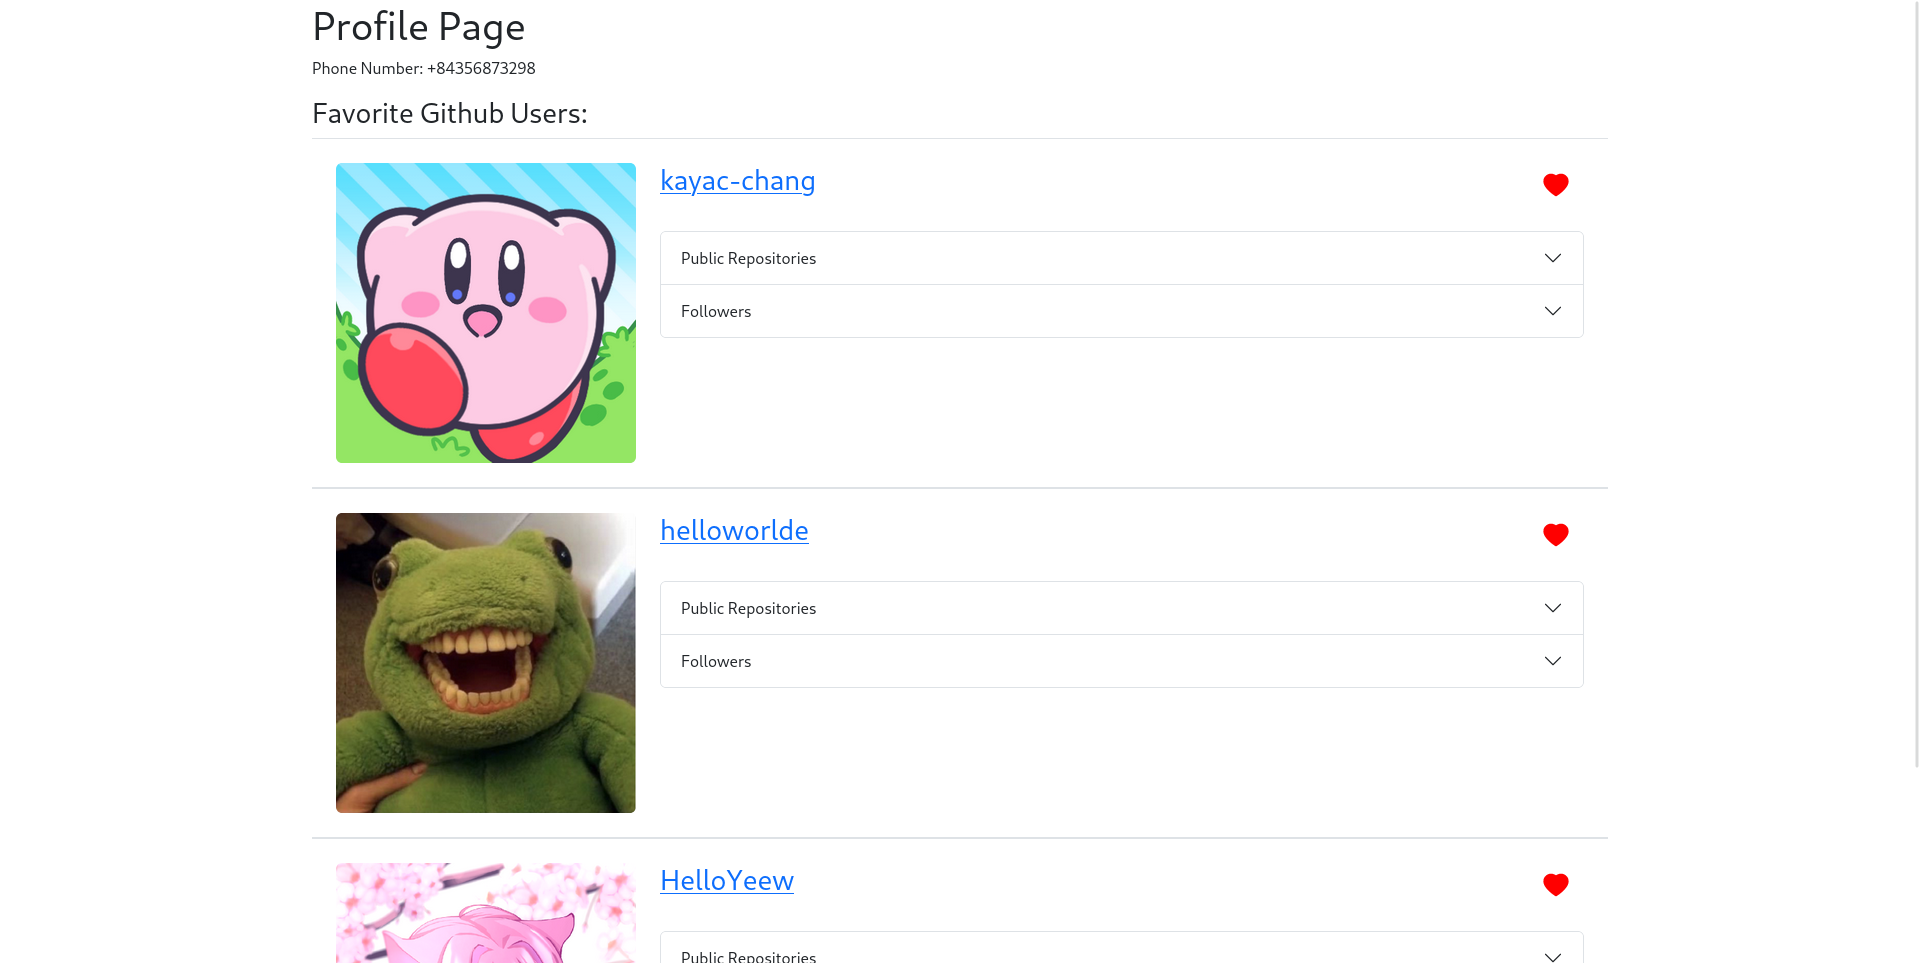
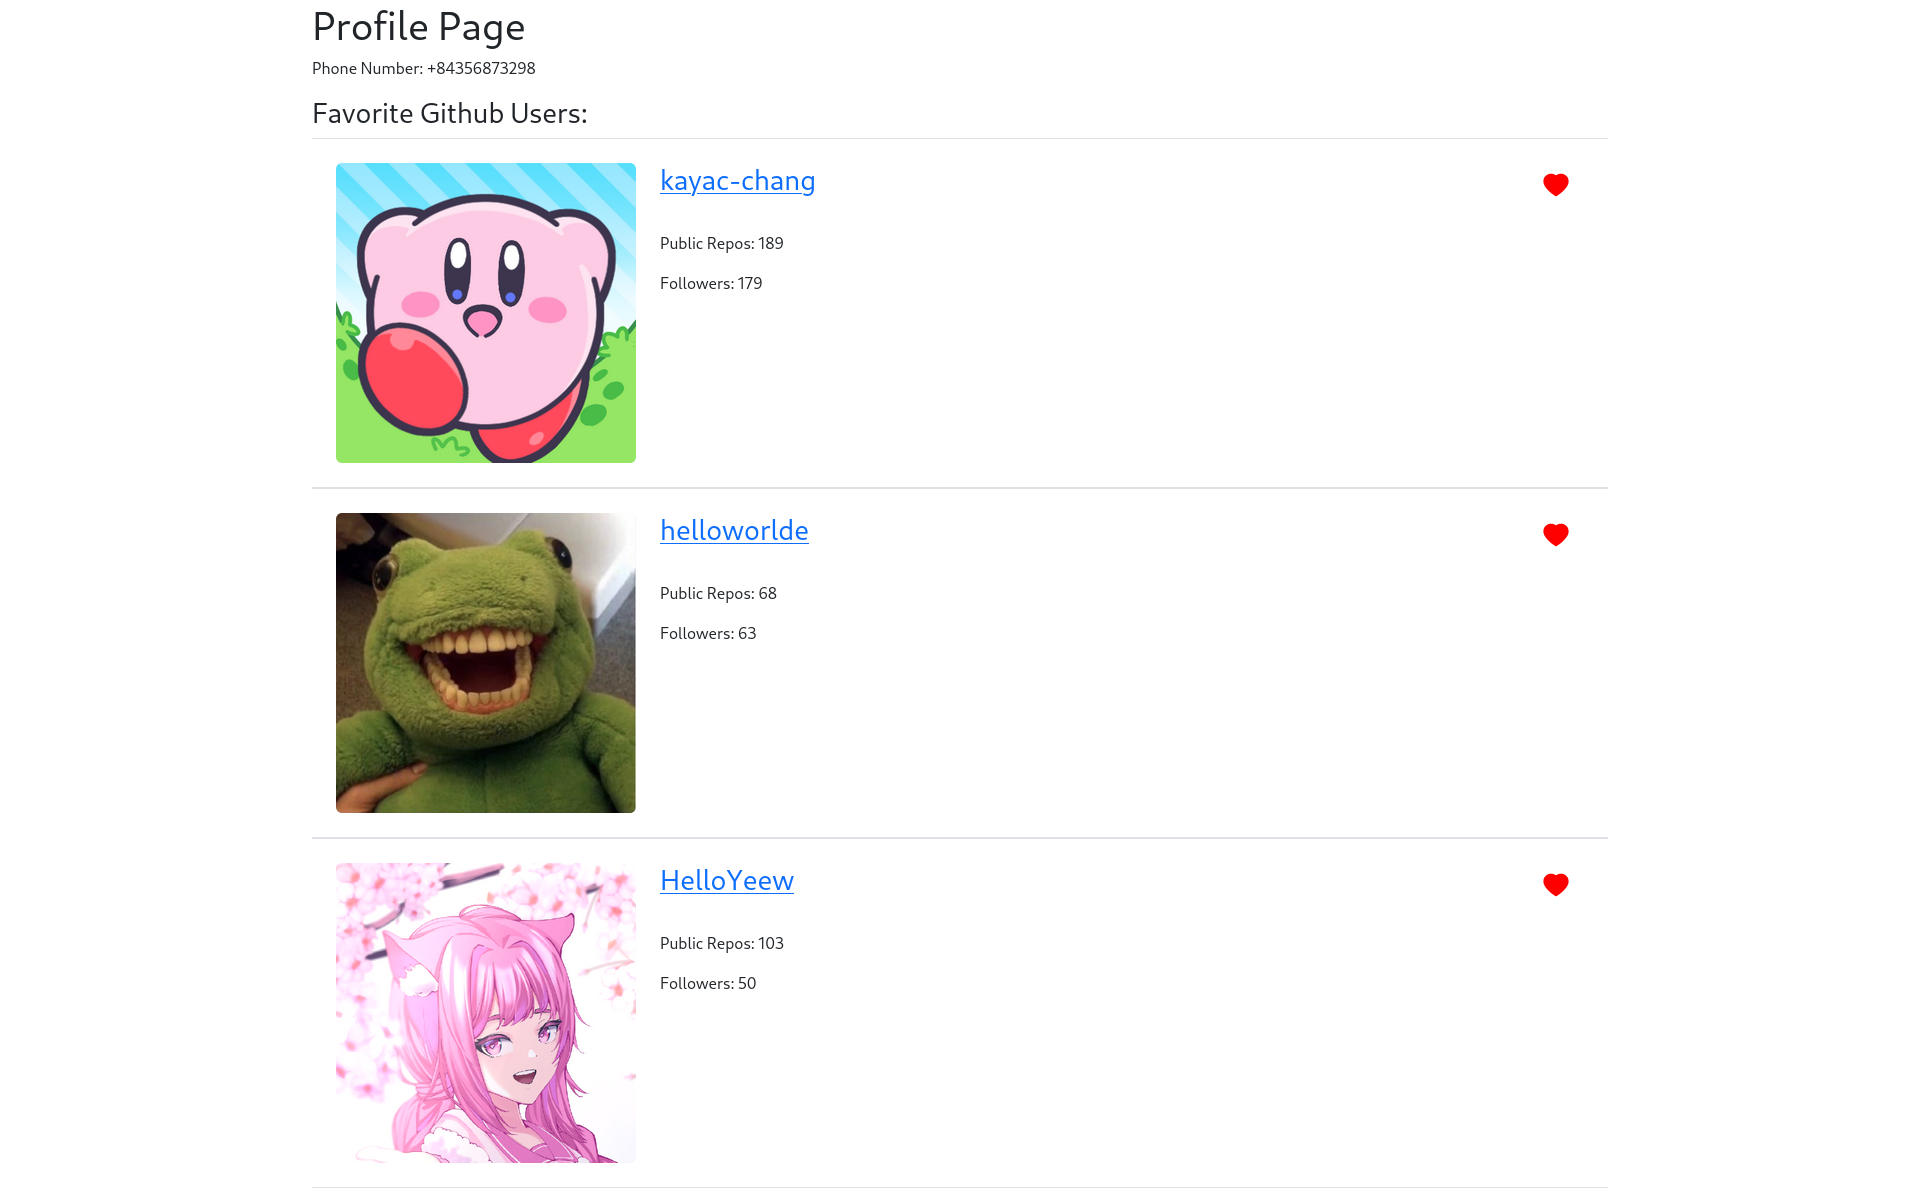
fix(backend, frontend): public_repos and followers
Change the `public_repos` and `followers` to display number instead of making requests to the Github API.

diff --git a/frontend/src/components/GithubUserTile.jsx b/frontend/src/components/GithubUserTile.jsx
@@ -8,14 +8,12 @@ export function GithubUserTile({
   login,
   avatarURL,
   htmlURL,
-  publicReposURL,
-  followersURL,
+  publicRepos,
+  followers,
   liked,
 }) {
   const { phoneNumber } = useAuth();
   const [isLiked, setIsLiked] = useState(liked);
-  const [publicRepos, setPublicRepos] = useState(null);
-  const [followers, setFollowers] = useState(null);
 
   const likeGithubUser = () => {
     axios
@@ -28,33 +26,6 @@ export function GithubUserTile({
       })
       .catch((err) => console.error(err));
   };
-
-  const getPublicRepos = () => {
-    if (publicRepos === null) {
-      axios
-        .get(publicReposURL)
-        .then((response) => {
-          setPublicRepos(() => response.data);
-        })
-        .catch((err) => console.error(err));
-    }
-  };
-
-  const getFollowers = () => {
-    if (followers === null) {
-      axios
-        .get(followersURL)
-        .then((response) => {
-          setFollowers(() => response.data);
-        })
-        .catch((err) => console.error(err));
-    }
-  };
-
-  const publicReposHeading = `public-repos-heading-${id}`;
-  const publicReposBody = `public-repos-body-${id}`;
-  const followersHeading = `followers-heading-${id}`;
-  const followersBody = `followers-body-${id}`;
 
   return (
     <div
@@ -85,81 +56,9 @@ export function GithubUserTile({
             )}
           </button>
         </div>
-        <div className="accordion">
-          <div className="accordion-item" onClick={getPublicRepos}>
-            <h2 className="accordion-header" id={publicReposHeading}>
-              <button
-                className="accordion-button collapsed"
-                type="button"
-                data-bs-toggle="collapse"
-                data-bs-target={`#${publicReposBody}`}
-                aria-expanded="false"
-                aria-controls={publicReposBody}
-              >
-                Public Repositories
-              </button>
-            </h2>
-            <div
-              id={publicReposBody}
-              className="accordion-collapse collapse"
-              aria-labelledby={publicReposHeading}
-            >
-              <div className="accordion-body">
-                <ul>
-                  {publicRepos
-                    ? publicRepos.map((repo) => (
-                        <li key={repo.html_url}>
-                          <a
-                            href={repo.html_url}
-                            target="_blank"
-                            rel="noreferrer"
-                          >
-                            {repo.name}
-                          </a>
-                        </li>
-                      ))
-                    : null}
-                </ul>
-              </div>
-            </div>
-          </div>
-          <div className="accordion-item" onClick={getFollowers}>
-            <h2 className="accordion-header" id={followersHeading}>
-              <button
-                className="accordion-button collapsed"
-                type="button"
-                data-bs-toggle="collapse"
-                data-bs-target={`#${followersBody}`}
-                aria-expanded="false"
-                aria-controls={followersBody}
-              >
-                Followers
-              </button>
-            </h2>
-            <div
-              id={followersBody}
-              className="accordion-collapse collapse"
-              aria-labelledby={followersHeading}
-            >
-              <div className="accordion-body">
-                <ul>
-                  {followers
-                    ? followers.map((follower) => (
-                        <li key={follower.login}>
-                          <a
-                            href={follower.html_url}
-                            target="_blank"
-                            rel="noreferrer"
-                          >
-                            {follower.login}
-                          </a>
-                        </li>
-                      ))
-                    : null}
-                </ul>
-              </div>
-            </div>
-          </div>
+        <div>
+          <p>Public Repos: {publicRepos}</p>
+          <p>Followers: {followers}</p>
         </div>
       </div>
     </div>

diff --git a/backend/users/users.service.js b/backend/users/users.service.js
@@ -113,14 +113,18 @@ function usersService(db) {
     const favoriteGithubUsers = user.favoriteGithubUsers
       ? user.favoriteGithubUsers
       : [];
-    const sanitizedGithubUsers = githubUsers.items.map((ghUser) => {
+    const detailedGithubUsersPromises = githubUsers.items.map((ghUser) => {
+      return findGithubUserProfile(ghUser.id);
+    });
+      const detailedGithubUsers = await Promise.all(detailedGithubUsersPromises)
+    const sanitizedGithubUsers = detailedGithubUsers.map((ghUser) => {
       return {
         id: ghUser.id,
         login: ghUser.login,
         avatar_url: ghUser.avatar_url,
         html_url: ghUser.html_url,
-        public_repos: ghUser.repos_url,
-        followers: ghUser.followers_url,
+        public_repos: ghUser.public_repos,
+        followers: ghUser.followers,
         liked: favoriteGithubUsers.includes(ghUser.id),
       };
     });
@@ -152,8 +156,8 @@ function usersService(db) {
       login: githubUser.login,
       avatar_url: githubUser.avatar_url,
       html_url: githubUser.html_url,
-      public_repos: githubUser.repos_url,
-      followers: githubUser.followers_url,
+      public_repos: githubUser.public_repos,
+      followers: githubUser.followers,
     };
   }
 

diff --git a/frontend/src/pages/ProfilePage.jsx b/frontend/src/pages/ProfilePage.jsx
@@ -29,8 +29,8 @@ function ProfilePage() {
             login={ghUser.login}
             avatarURL={ghUser.avatar_url}
             htmlURL={ghUser.html_url}
-            publicReposURL={ghUser.public_repos}
-            followersURL={ghUser.followers}
+            publicRepos={ghUser.public_repos}
+            followers={ghUser.followers}
             liked={true}
           />
         ))}

diff --git a/frontend/src/pages/SearchPage.jsx b/frontend/src/pages/SearchPage.jsx
@@ -101,8 +101,8 @@ function SearchPage() {
             login={user.login}
             avatarURL={user.avatar_url}
             htmlURL={user.html_url}
-            publicReposURL={user.public_repos}
-            followersURL={user.followers}
+            publicRepos={user.public_repos}
+            followers={user.followers}
             liked={user.liked}
           />
         );
